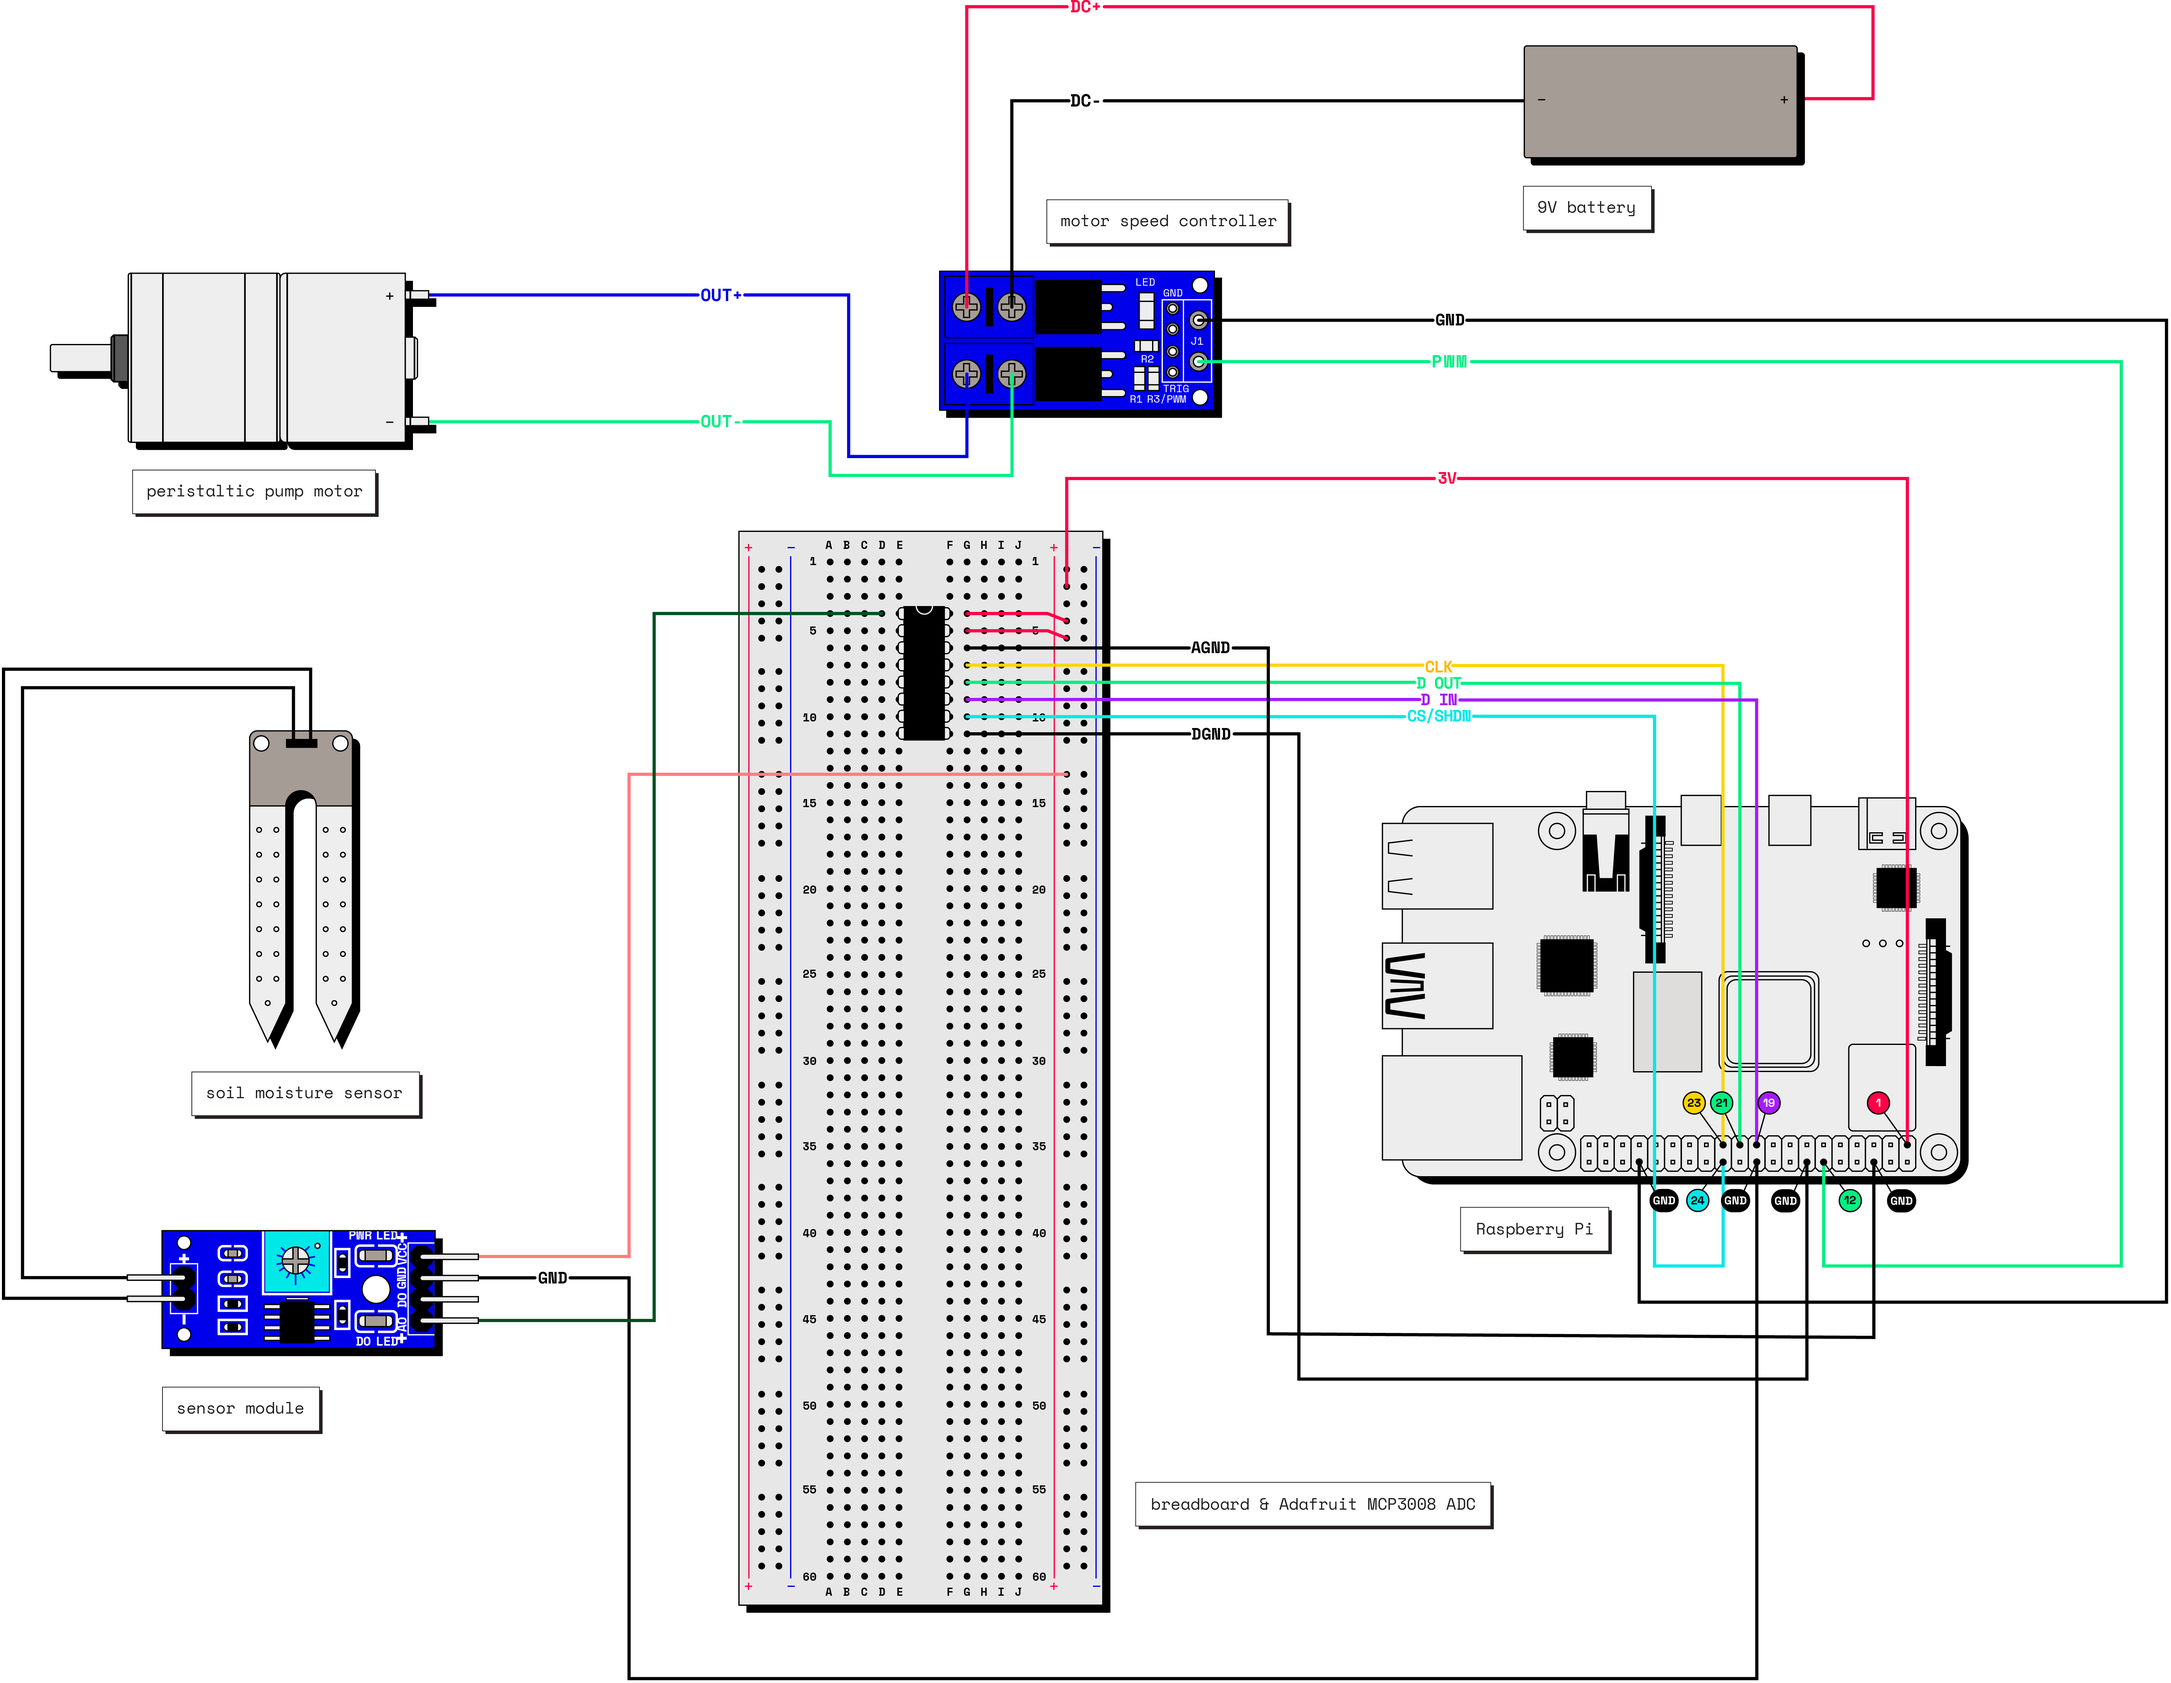
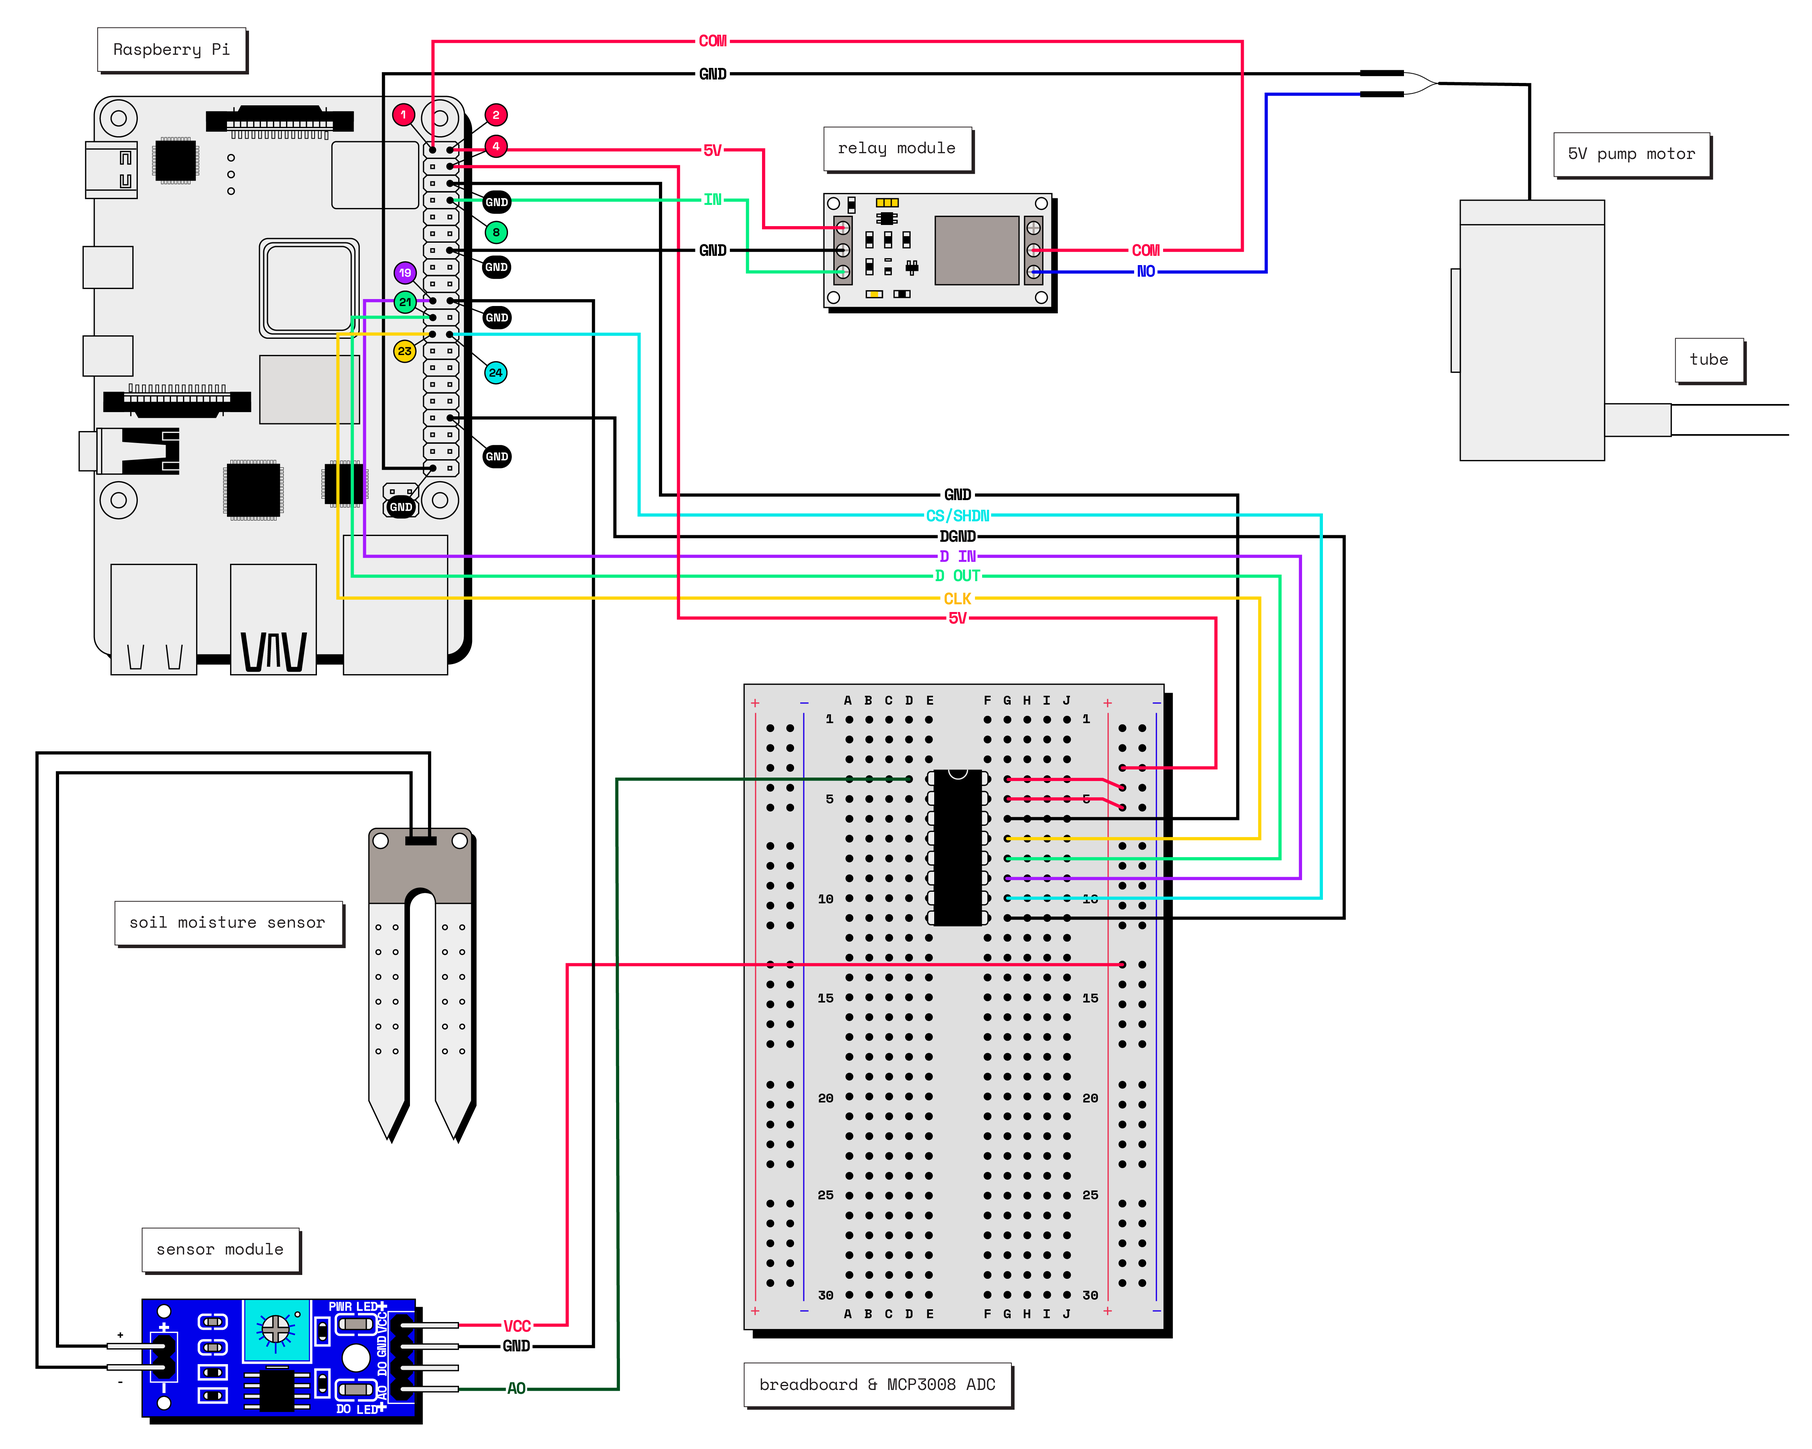
Added relay instead of battery

diff --git a/docs/tutorials/projects/make-a-plant-watering-robot.md b/docs/tutorials/projects/make-a-plant-watering-robot.md
@@ -26,26 +26,23 @@ With a Raspberry Pi and some cheap, basic hardware, you can keep your plants hea
 Follow this tutorial to learn how to set up an automatic plant watering system:
 
 1. [Complete the physical assembly and wiring](#set-up-your-plant-watering-robot).
-2. [Create and connect to the robot](#configure-the-components-of-your-robot-in-the-viam-app).
-3. [Configure your robot's components](#configure-the-components-of-your-robot-in-the-viam-app).
-4. [Configure the ADC as a module from the registry](#configure-the-adc-as-a-module-from-the-registry).
-5. [Write code utilizing the Viam Python SDK to control the plant watering robot](#add-python-control-code).
+2. [Create and connect to the robot, and configure your robot's components](#configure-the-components-of-your-robot-in-the-viam-app).
+3. [Configure the ADC as a module from the registry](#configure-the-adc-as-a-module-from-the-registry).
+4. [Write code utilizing the Viam Python SDK to control the plant watering robot](#add-python-control-code).
 
 {{<youtube embed_url="https://www.youtube-nocookie.com/embed/Q6UuUKJpDn0?start=877">}}
 
-You can also follow a simplified version of this tutorial in this video: it eliminates the need for the ADC, the breadboard, and the motor speed controller, and uses the digital pin of the moisture sensor to get “high” and “low” readings and to turn a relay on and off.
+You can also follow a simplified version of this tutorial in this video: it eliminates the need for the ADC and the breadboard, instead uses the digital pin of the moisture sensor to get “high” and “low” readings and to turn a relay on and off.
 You can start with this simple version and then add the ADC to make your machine more accurate!
 
 The tutorial uses the following hardware, but you can adjust it as needed:
 
 - A Raspberry Pi 3B or 4B with SD card and [5V USB power supply](https://www.amazon.com/CanaKit-Raspberry-Supply-Adapter-Listed/dp/B00MARDJZ4)
 - A [resistive soil moisture sensor](https://www.amazon.com/KeeYees-Sensitivity-Moisture-Watering-Manager/dp/B07QXZC8TQ)
-- A [peristaltic pump](https://www.amazon.com/Gikfun-Peristaltic-Connector-Aquarium-Analytic/dp/B01IUVHB8E) motor and [tubing](https://www.amazon.com/dp/B08H1ZD5VZ?psc=1&)
-- An [Adafruit MCP3008 ADC](https://a.co/d/csRaIHE)
-- A [motor speed controller](https://www.amazon.com/High-Power-Transistor-Controller-MELIFE-Electronic/dp/B09XKCD8HS)
+- A [5V mini water pump](https://www.amazon.com/gp/product/B09TGK9N5Q/) with clear vinyl tube
+- A [MCP3008 ADC](https://a.co/d/csRaIHE)
+- A [one channel relay switch](https://www.amazon.com/HiLetgo-Channel-optocoupler-Support-Trigger/dp/B00LW15A4W/)
 - A [breadboard](https://www.amazon.com/SunFounder-Raspberry-Breadboard-solderless-Circuit/dp/B07ZYR7R8X)
-- A [9V battery](https://www.amazon.com/dp/B08BRJQQSL/)
-  - Optional: [wire leads](https://www.amazon.com/Battery-Hard-Shell-Connector-Insulated-Wires/dp/B07WTYS1PM/) in place of alligator clips for wiring the battery
 - Assorted [breadboard jumper wires](https://www.amazon.com/EDGELEC-Breadboard-Optional-Assorted-Multicolored/dp/B07GD2BWPY/), including wires with [alligator clips](https://www.amazon.com/Goupchn-Alligator-Breadboard-Flexible-Electrical/dp/B08M5P6LHR/)
 - A planter box or flower pot
 - A water container
@@ -58,7 +55,7 @@ Make sure your Pi is flashed with a Viam-compatible operating system, and that y
 ## Set up your plant watering robot
 
 Before programming the Pi to make the plant watering robot functional, you need to physically set up the plant watering robot by wiring the different components together.
-You will set up the robot to receive signals from the resistive soil moisture sensor and signal to the peristaltic pump when it is time to pump water from the water's container to the plant's container.
+You will set up the robot to receive signals from the resistive soil moisture sensor and signal to the 5V pump when it is time to pump water from the water's container to the plant's container.
 
 ### Full wiring diagram
 
@@ -83,19 +80,21 @@ Use this to orient the ADC to determine the location to insert your wires.
 {{% /alert %}}
 
 Insert the MCP3008 into your breadboard so that it bridges both sides of the divide.
-Then, use the rows on the side of your MCP3008's pins and the GPIO pins on your PI to connect the pins with wires as follows:
+Then, use the rows on the side of your MCP3008's pins and the GPIO pins on your Pi to connect the pins with wires as follows:
 
 <!-- prettier-ignore -->
 | MCP3008 ADC Pin | Raspberry Pi Pin |
 | ----------- | ---------------- |
-| VDD | 3.3V |
-| VREF | 3.3V |
+| VDD | 5V |
+| VREF | 5V |
 | AGND | GND |
 | DGND | GND |
 | CLK | SCLK |
 | DOUT | MISO |
 | DIN | MOSI |
-| CS/SHDN | GPIO8 |
+| CS/SHDN | 24GPIO8 |
+
+The 5V Raspberry Pi pins go into the power rail of the breadboard (the red plus sign column). This will be used to share the 5v output from the Raspberry Pi Pin 4 which is 5V power. Thus one additional wiring from the top of the power rail of the breadboard to the Raspberry Pi [Pin 4 (5V)](https://pinout.xyz/pinout/5v_power) is necessary.
 
 ### Wire your resistive soil moisture sensor
 
@@ -106,37 +105,31 @@ Reference this diagram of the blue module part of the sensor:
 ![Pinout diagram for the resistive soil moisture sensor.](/tutorials/plant-watering-pi/moisture-sensor-pinout.png)
 
 Start by connecting the female jumper wires at the end of the sensor prongs to the blue module where the diagram shown above is labeled "Connect with Probe."
+Be careful of the positive and negative sides, and make sure to match it correctly. 
 
 Then, wire the rest of the pins on the module to the Pi and ADC as follows:
 
 <!-- prettier-ignore -->
 | Pi | ADC |
 |--|--|
-|<table> <tr><th>Moisture Sensor Pin</th><th>Raspberry Pi Pin</th></tr><tr><td>VCC</td><td>3.3V</td></tr><tr><td>GND</td><td>GND</td></tr> </table>| <table> <tr><th>Moisture Sensor Pin</th><th>MCP3008 ADC Pin</th></tr><tr><td>A0 (Analog Signal Output)</td><td>CH0</td></tr> </table>|
+|<table> <tr><th>Moisture Sensor Pin</th><th>Raspberry Pi Pin</th></tr><tr><td>VCC</td><td>5V on the power rail</td></tr><tr><td>GND</td><td>GND</td></tr> </table>| <table> <tr><th>Moisture Sensor Pin</th><th>MCP3008 ADC Pin</th></tr><tr><td>A0 (Analog Signal Output)</td><td>CH0</td></tr> </table>|
 
 Put the soil moisture sensor inside of the container holding your plant.
 
 ### Wire your pump
 
-Now, wire and power your Peristaltic Pump [motor](/components/motor/) and [motor speed controller](https://www.amazon.com/High-Power-Transistor-Controller-MELIFE-Electronic/dp/B09XKCD8HS) to complete your hardware setup.
+Now, wire and power your pump [motor](/components/motor/), and relay module to complete your hardware setup.
 
-Reference this diagram of the motor speed controller:
-
-![Pinout diagram for the motor speed controller.](/tutorials/plant-watering-pi/motor-speed-controller-diagram.png)
-
-1. Attach [alligator wire clips](https://www.amazon.com/Goupchn-Alligator-Breadboard-Flexible-Electrical/dp/B08M5P6LHR/) to your battery to connect it to the DC power pins on your motor speed controller.
-   Match the **+** notation on the battery to the **+** DC power pin.
-2. Attach [alligator wire clips](https://www.amazon.com/Goupchn-Alligator-Breadboard-Flexible-Electrical/dp/B08M5P6LHR/) to the pump to connect the output pins on your motor speed controller to the pump.
-3. Connect the GND pin hole on the controller to GND on the Pi.
-4. Connect the PWM pin hole on the pump to [Pin 12 (GPIO 18)](https://pinout.xyz/pinout/pin12_gpio18) of the Pi.
-   Note that the controller does not come with header pins.
+1. Attach an [alligator wire clip](https://www.amazon.com/Goupchn-Alligator-Breadboard-Flexible-Electrical/dp/B08M5P6LHR/) to your 5V pump motor's positive wire, and connect it to the NO pin on relay module. NO stands for normally open, which will keep the circuit open unless the pin is triggered.
+2. Attach another [alligator wire clip](https://www.amazon.com/Goupchn-Alligator-Breadboard-Flexible-Electrical/dp/B08M5P6LHR/) to your 5V pump motor's negative wire, and connect it to [Pin 39 (Ground)](https://pinout.xyz/pinout/ground) on the Raspberry Pi.
+3. Connect the COM (Common) pin on the relay to [Pin 1 (3.3V)](https://pinout.xyz/pinout/3v3_power) on the Pi.
+4. Connect the 5V pin on the relay to [Pin 2 (5V)](https://pinout.xyz/pinout/5v_power) on the Pi.
+5. Connect the GND pin on the relay to [Pin 14 (Ground)](https://pinout.xyz/pinout/ground) on the Pi.
+6. Connect the IN pin on the relay to the [Pin 8 (GPIO 14)](https://pinout.xyz/pinout/pin8_gpio14) on the Pi.
 
 {{% alert title="Tip" color="tip" %}}
 
-To complete steps 2 and 3, you must insert the end of the jumper wires into the DC and output pin gates on the motor speed controller and tighten the screws on these gates with your screwdriver to close the wires inside.
-
-For steps 3 and 4, note that the motor speed controller linked does not come with header pins.
-You can either bend or soldier the jumper wire here to make the connection between the jumper wire and the PWM hole of the controller.
+To complete the steps, you must insert the end of the jumper wires into the pin gates on the relay module and tighten the screws on these gates with your screwdriver to close the wires inside.
 
 {{% /alert %}}
 
@@ -301,7 +294,7 @@ First, add your Pi as a [board component](/components/board/) by creating a new 
 
 Then, add your pump as a [motor component](/components/motor/) by adding a new component with **type** `motor` and **model** `gpio`.
 
-Set the motor's attributes **Max RPM** to `1000` and **PWM** to `12 GPIO 18` (the board and GPIO pin that you wired the pump's PWM to).
+Set the motor's attributes **Max RPM** to `1000` and **PWM** to `8 GPIO 14` (the board and GPIO pin that you wired the relay's IN to).
 
 {{< tabs name="Configure an Pump Motor" >}}
 {{% tab name="Config Builder" %}}
@@ -323,7 +316,7 @@ Set the motor's attributes **Max RPM** to `1000` and **PWM** to `12 GPIO 18` (th
       "a": "",
       "b": "",
       "dir": "",
-      "pwm": "12"
+      "pwm": "8"
     },
     "board": "local",
     "max_rpm": 1000
